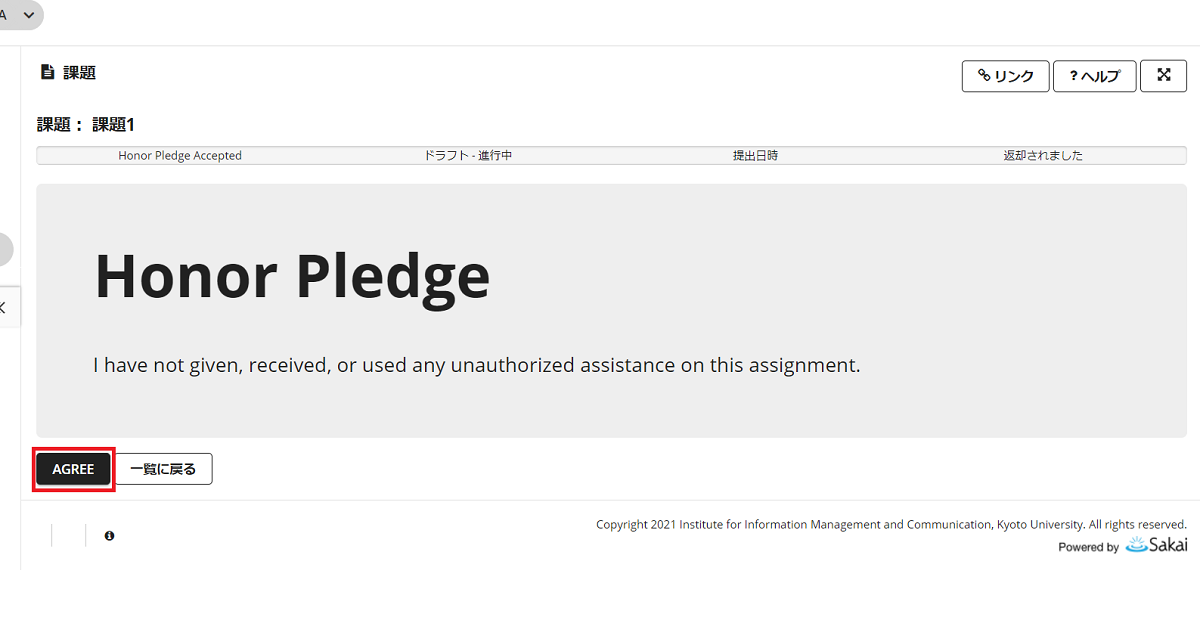
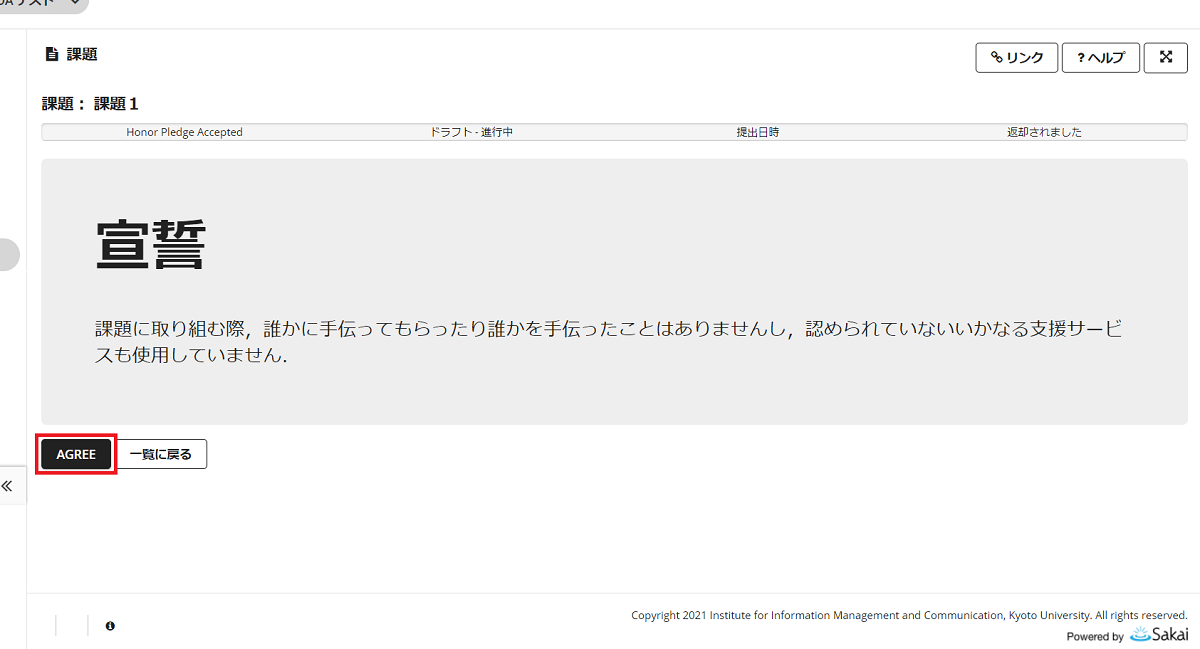
スクリーンショットの差し替え

diff --git a/templates/assignment_submisson_process.htm b/templates/assignment_submisson_process.htm
@@ -89,10 +89,6 @@
                         </div>
                     </div>
                     <div class="help_if">
-                        <h5 class = "ml-1">○このような画面が出た場合は</h5>
-                        <div class="image clearfix">
-                            <img src="../static/images/assignment_sp_step3-a.png" alt="step3a">
-                        </div>
                         <div class="instructions">
                             <p>
                                 不正を行っていないことを宣誓する必要が場合、上のようなページが表示されます。
